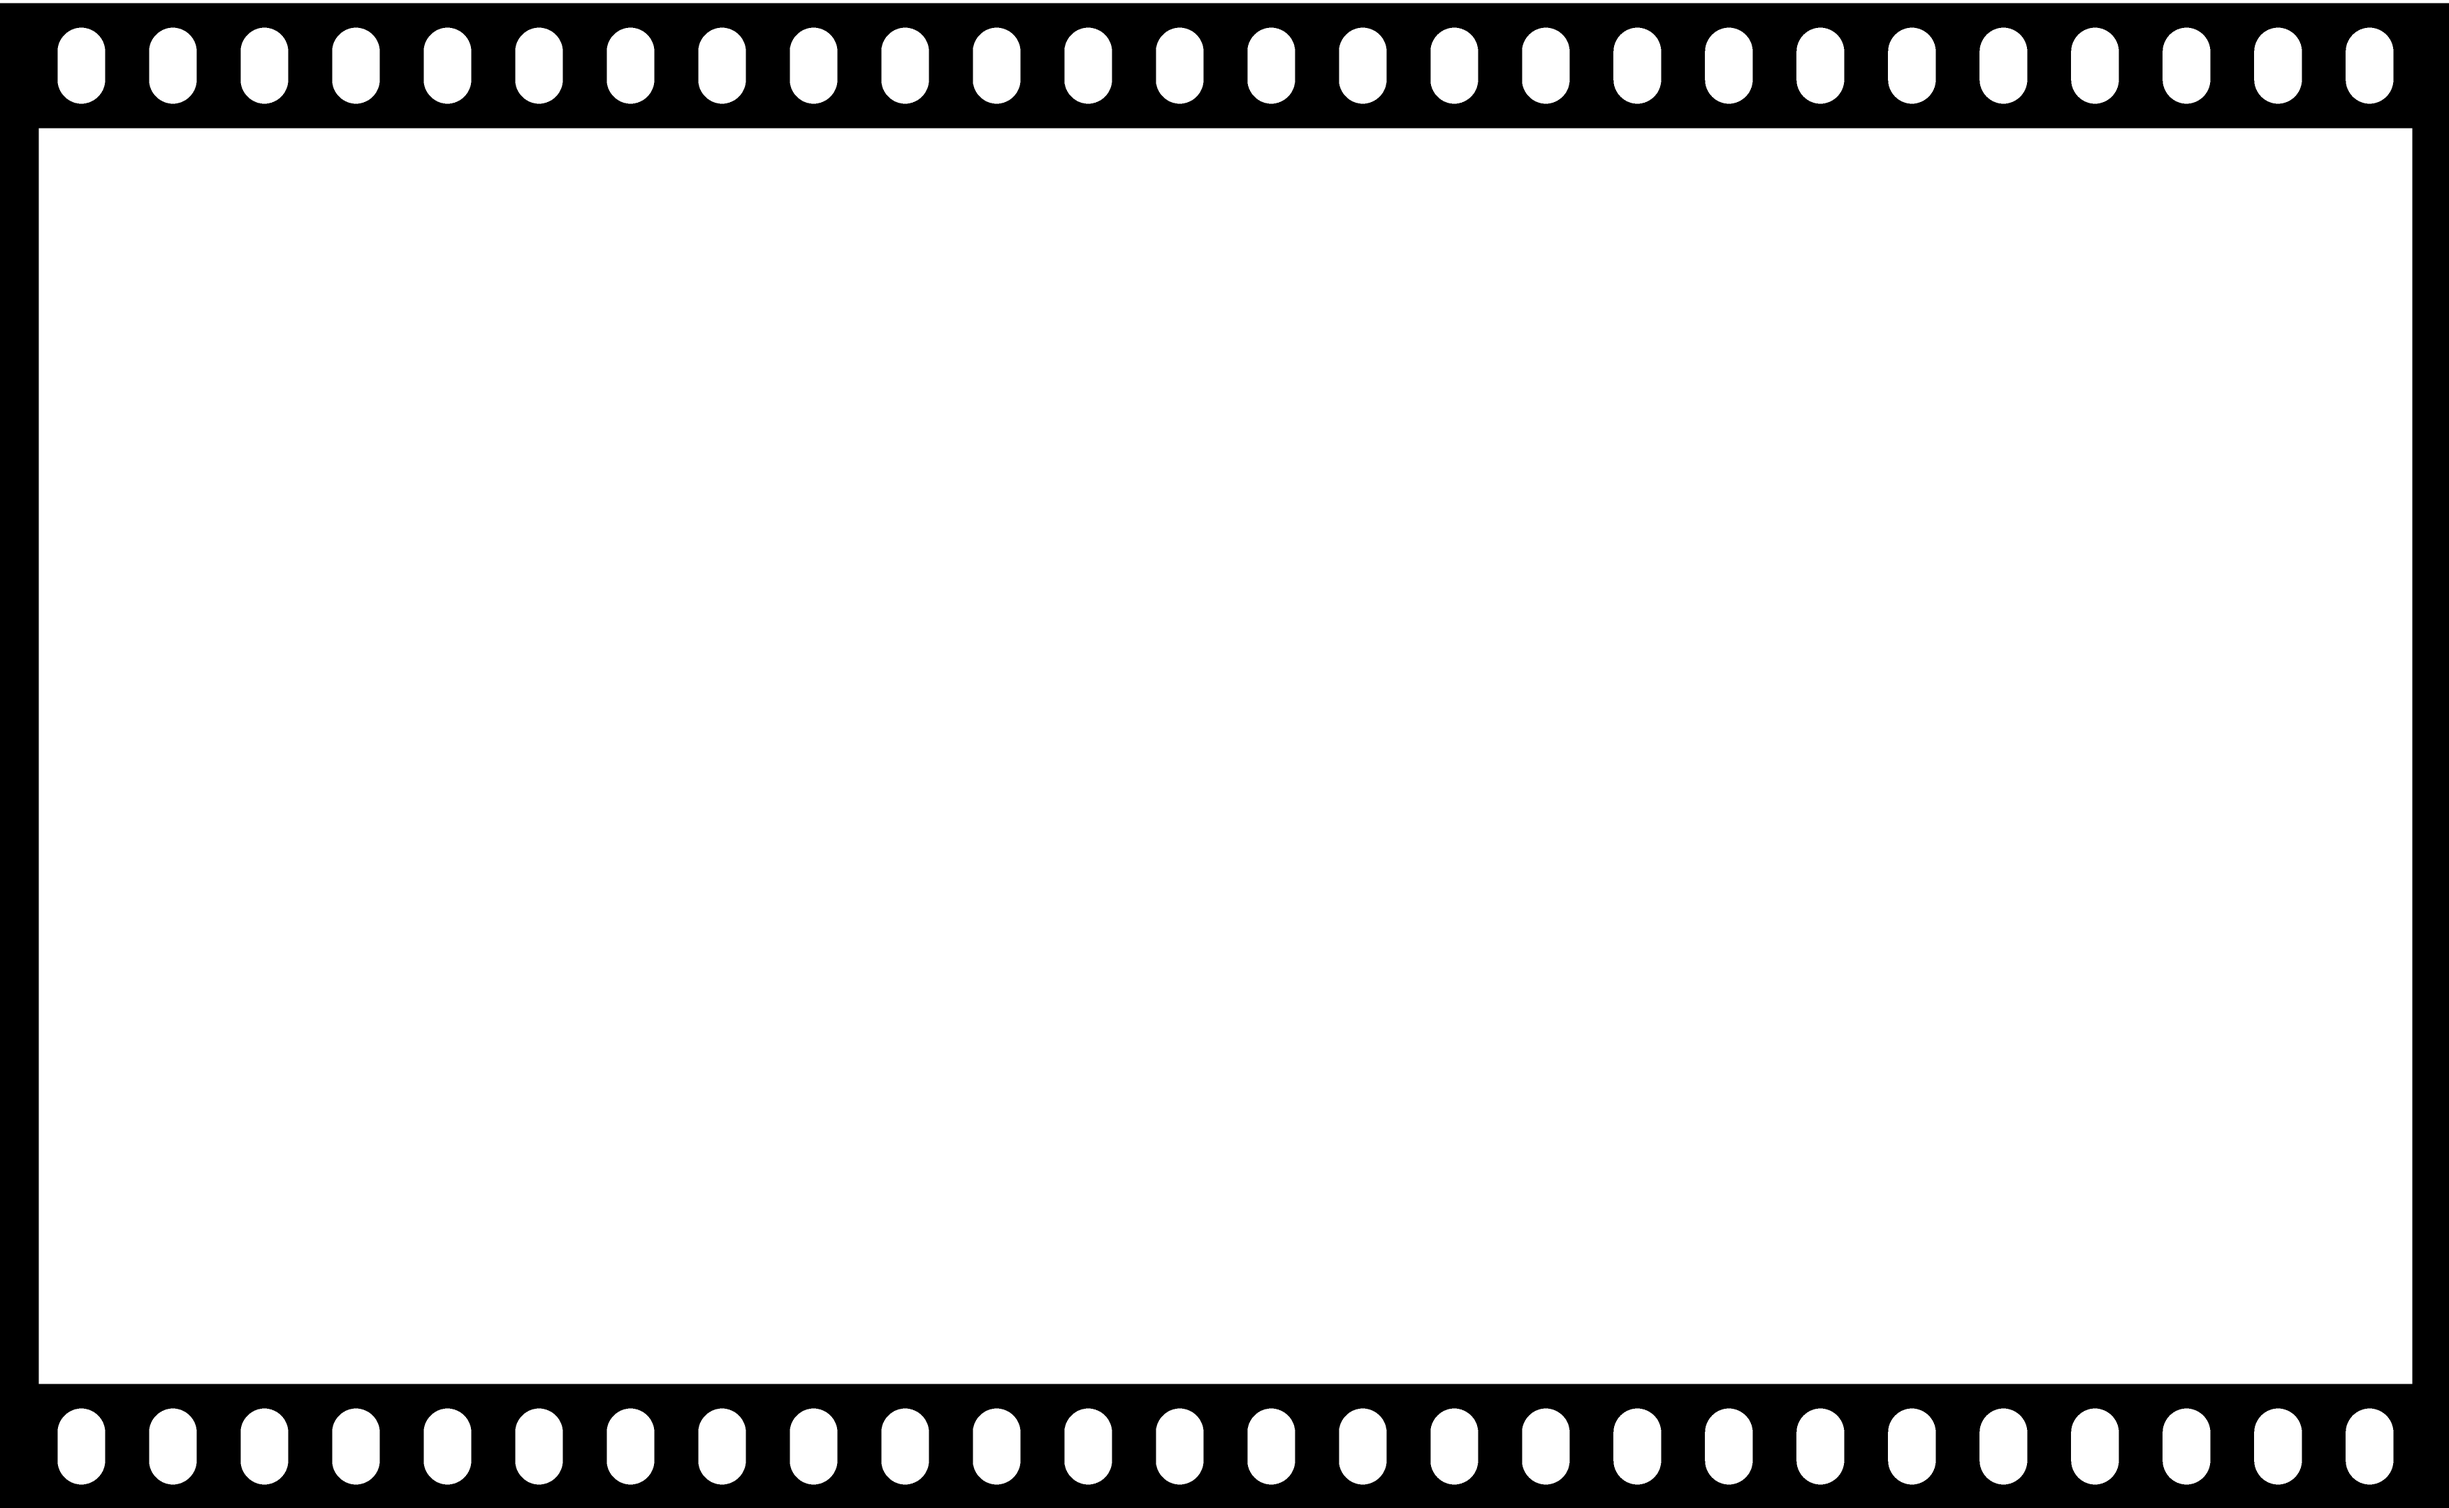
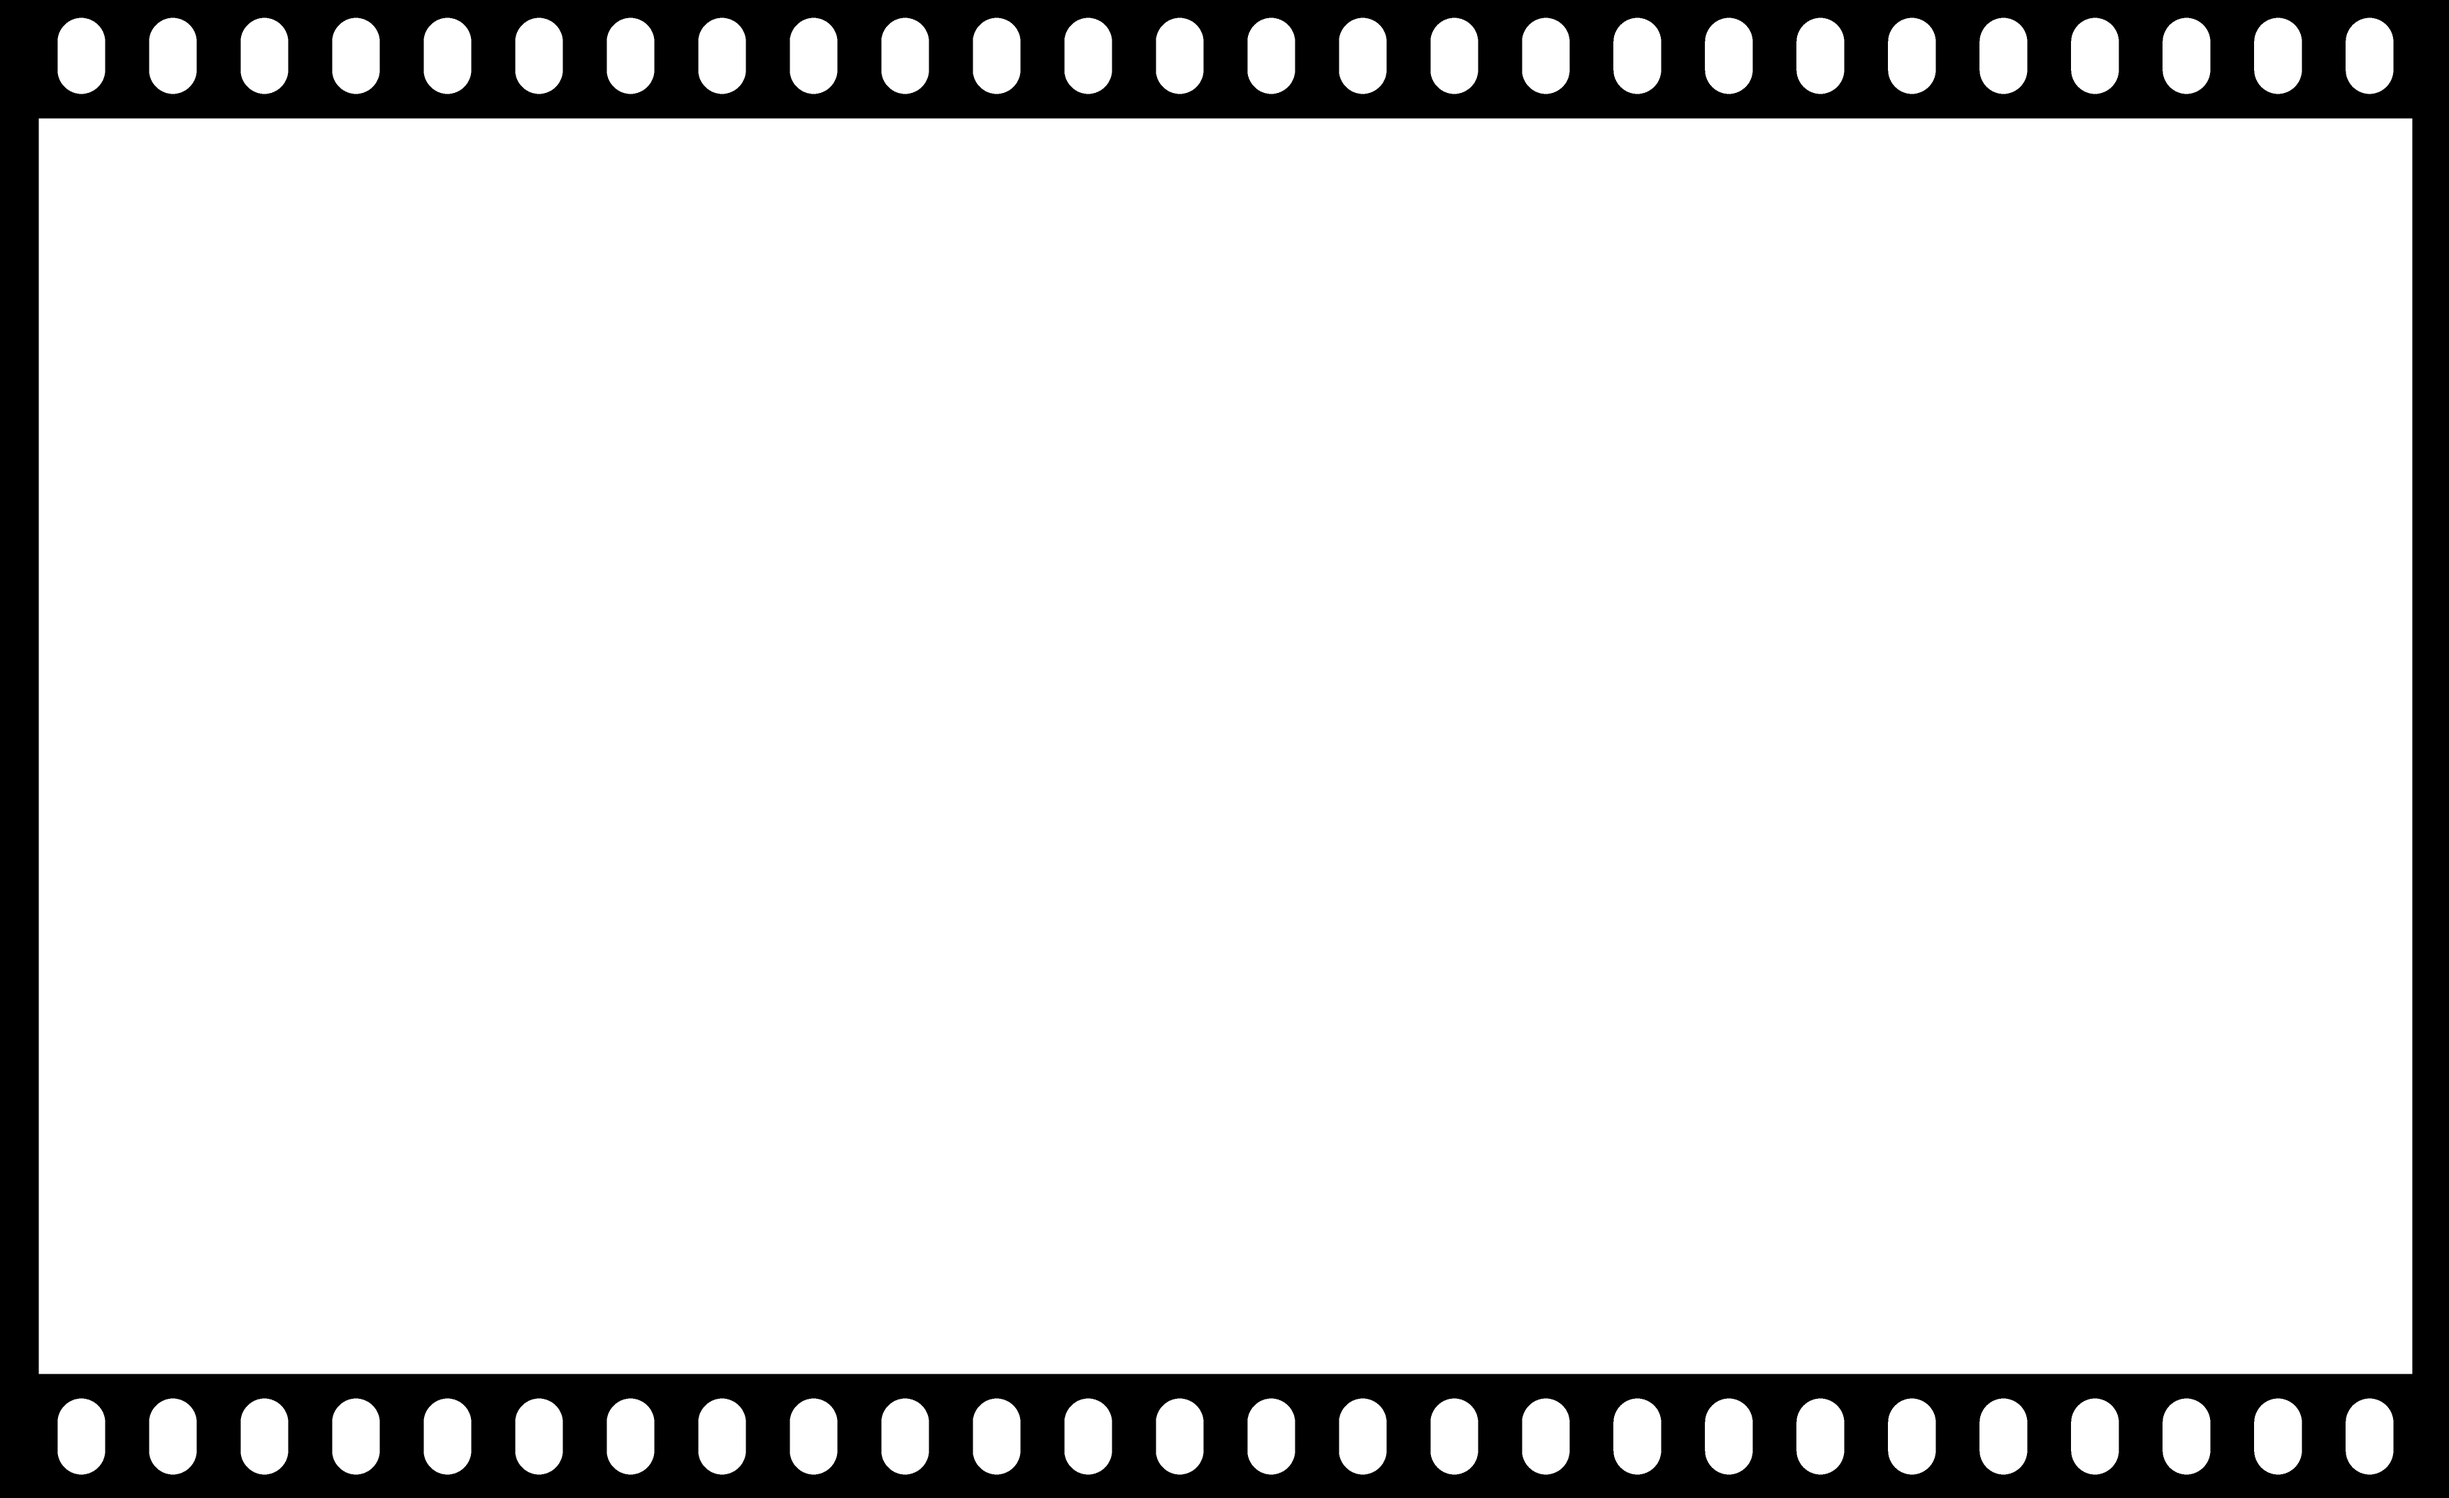
edit MainPage (background image)

Changed region(s): [[0.0, 0.0625, 0.9951, 0.0938], [0.0, 0.0, 0.9951, 0.0312]]

diff --git a/src/pages/MainPage/MainPage.scss b/src/pages/MainPage/MainPage.scss
@@ -1,34 +1,24 @@
-.FullPage {
-  .MainPage {
-    // height: 100vh;
-    width: 100vw;
-    background-image: url(background-film.png);
-    background-color: gray;
-    background-size: 1550px 600px;
-    background-position-x: -7px;
-    background-position-y: 115px;
-    background-repeat: no-repeat;
-    padding-bottom: 13%;
+.mainPage {
+  display: flex;
+  background-image: url(background-film.png);
+  background-repeat: no-repeat;
+  background-position: top center;
+  background-size: 100% 100%;
+  height: calc(100vh - 12.5rem);
+  padding: 3.4rem 0;
+  justify-content: space-between;
+  flex-direction: column;
 
-    .container {
-      display: grid;
-      grid-template-columns: repeat(3, 200px);
-      grid-template-rows: repeat(2, 200px);
-      height: 100%;
-      gap: 15px;
-      justify-content: center;
-      align-items: center;
-      padding-top: 12%;
-    }
+  .container {
+    display: flex;
+    flex-direction: row;
+    justify-content: space-between;
+    padding: 1rem 10rem;
+  }
 
     .category-list {
-      display: grid;
-      grid-template-columns: repeat(7, 120px);
-      gap: 20px;
-      position: fixed;
-      bottom: 11%;
-      left: 50%;
-      transform: translate(-50%, 50%);
-    }
+      display: flex;
+      justify-content: space-between;
+      padding: 1rem 3rem;
   }
 }

diff --git a/src/pages/MainPage/MainPage.js b/src/pages/MainPage/MainPage.js
@@ -6,13 +6,15 @@ import CategoryBox from './CategoryBox/CategoryBox';
 
 function MainPage() {
   return (
-    <div className='FullPage'>
+    <div className='fullPage'>
       <Header />
-      <div className='MainPage'>
+      <div className='mainPage'>
         <div className='container'>
           <Box name="아이유" />
           <Box name="손흥민" />
           <Box name="이순신" />
+        </div>
+        <div className='container'>
           <Box name="잡스" />
           <Box name="박지성" />
           <Box name="몰라" />

diff --git a/src/pages/MainPage/CategoryBox/CategoryBox.scss b/src/pages/MainPage/CategoryBox/CategoryBox.scss
@@ -1,10 +1,10 @@
 .categorybox {
-  height: 40px;
-  width: 100px;
+  height: 2.8rem;
+  width: 5.8rem;
   border: 2px solid white;
-  border-radius: 10px;
-  font-size: 20px;
-  color: gold;
+  border-radius: 0.8rem;
+  font-size: 1.2rem;
+  color: #a68b5a;
   display: flex;
   align-items: center;
   justify-content: center;

diff --git a/src/pages/Component/Header/Header.scss b/src/pages/Component/Header/Header.scss
@@ -4,7 +4,7 @@ header {
     flex-direction: row;
     justify-content: space-between;
     padding: 0.6rem 2rem;
-    position: fixed;
+    position: sticky;
     top: 0; left: 0; right: 0;
 
     h1 {

diff --git a/src/pages/MainPage/Box/Box.scss b/src/pages/MainPage/Box/Box.scss
@@ -1,7 +1,6 @@
 .box {
-  width: 200px;
-  height: 200px;
+  width: 12rem;
+  height: 12rem;
   background-color: yellow;
-  border-radius: 5px;
-  margin-right: 30px;
+  border-radius: 0.5rem;
 }
